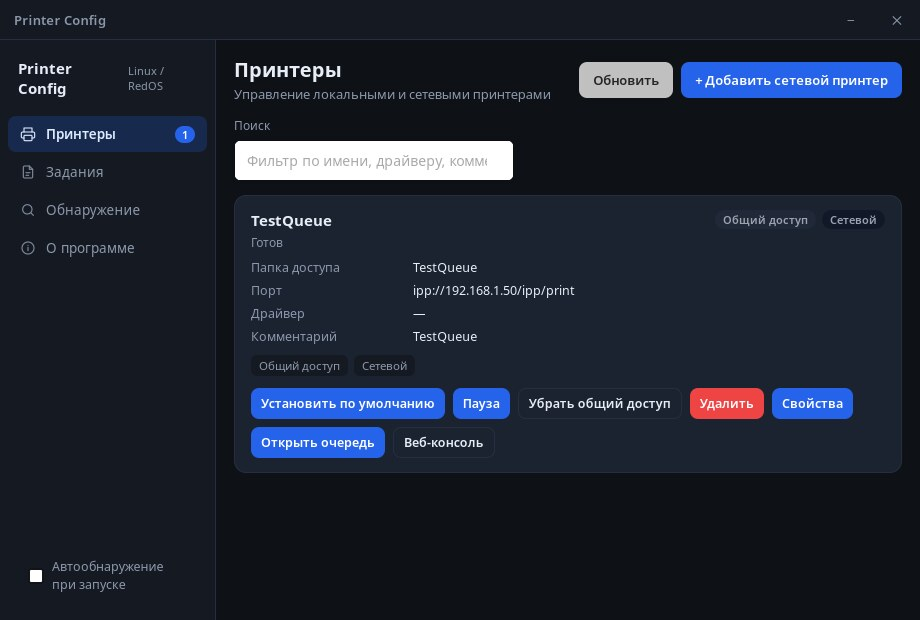
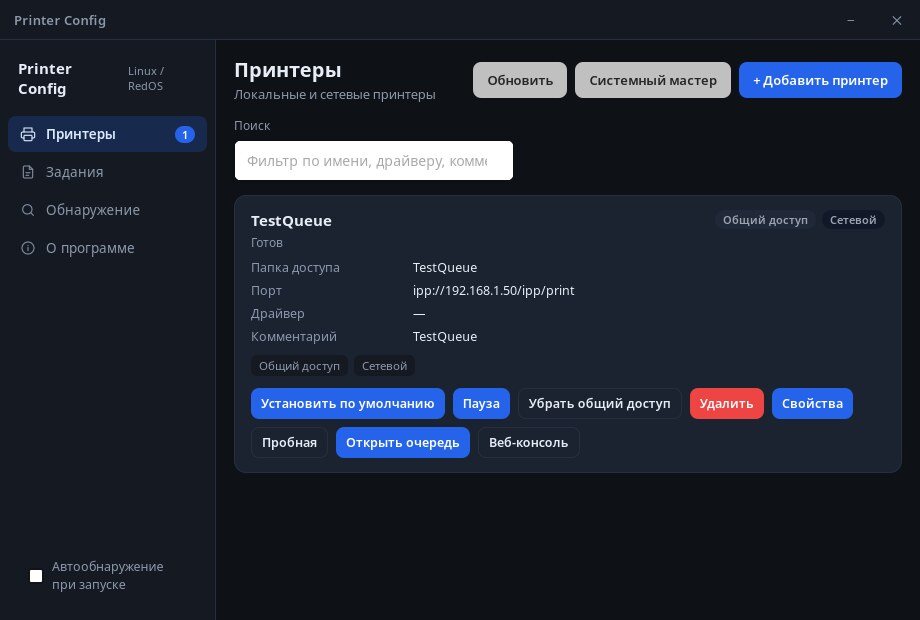
ui: кнопки в шапке в одну строку, обновлён скриншот
- «+ Добавить сетевой принтер» → «+ Добавить принтер», подзаголовок
  вкладки короче — кнопки помещаются в одну строку при ширине окна 920;
- кнопки в шапке выравниваются по правому краю при переносе;
- скриншот в README переснят с новыми кнопками «Пробная» и
  «Системный мастер».

Changed region(s): [[0.2739, 0.0919, 0.913, 0.1839], [0.2739, 0.6742, 0.6087, 0.7661]]

diff --git a/src/views/PrintersView.tsx b/src/views/PrintersView.tsx
@@ -44,7 +44,7 @@ export default function PrintersView({
       <div className="view__header">
         <div>
           <h2 className="view__title">Принтеры</h2>
-          <p className="view__sub">Управление локальными и сетевыми принтерами</p>
+          <p className="view__sub">Локальные и сетевые принтеры</p>
         </div>
         <div className="view__actions">
           <button
@@ -65,7 +65,7 @@ export default function PrintersView({
             Системный мастер
           </button>
           <button type="button" className="button button--primary" onClick={onAddClick}>
-            + Добавить сетевой принтер
+            + Добавить принтер
           </button>
         </div>
       </div>

diff --git a/src/styles.css b/src/styles.css
@@ -263,6 +263,7 @@ body {
 .view__actions {
   display: flex;
   align-items: center;
+  justify-content: flex-end;
   gap: 8px;
   flex-wrap: wrap;
 }
